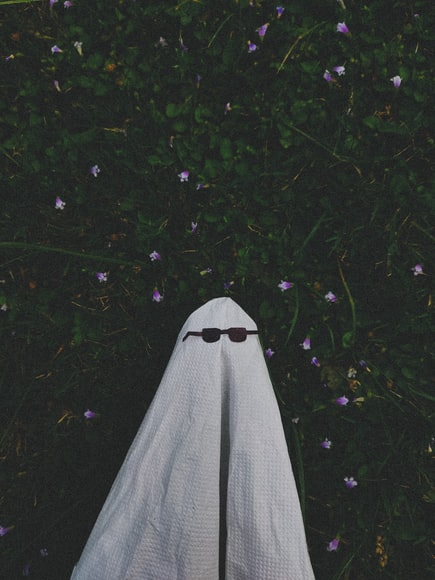
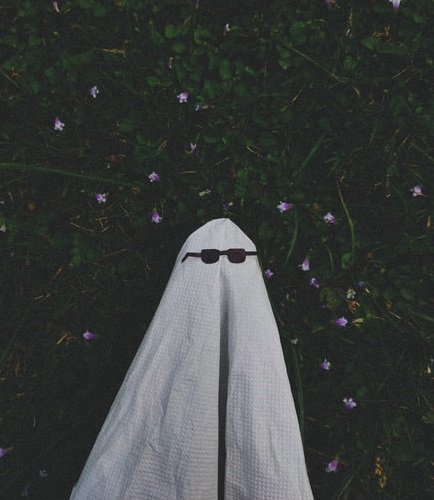
Added new footer, added some lame flexbox

diff --git a/css/style.css b/css/style.css
@@ -1,5 +1,5 @@
 :root {
-    --primary-color: #3E3C44;
+    --primary-color: #292630;
     --secondary-color: #38aff3; /* 158FFF  358fe3 35a3e3*/
     --accent-color: #ff8800; /*FF9900*/
     --text-color: #FFF;
@@ -70,6 +70,12 @@ hr {
     
 
 /*Diseño del footer:*/
+#div-footer {
+    background-color: var(--primary-color);
+    color: var(--text-color);
+    padding: 1rem 2rem 4rem 1rem;
+    text-align: right;
+}
 #social-icons {
     background-color: var(--secondary-color);
     position: fixed;
@@ -116,12 +122,18 @@ form > input[type="submit"] {
 }
 
 /* BIOGRAFIA.HTML */
+#biofgrafia-section {
+    display: flex;
+    flex-direction: column;
+    align-items: center;
+}
 #biografia-section > h2 {
     padding : 1rem 0.5rem 0 0.5rem;
     width: 100%;
 }
 #biografia-section > article {
     padding : 1rem 0.5rem 0 0.5rem;
+    max-width: 300px;
 }
 #biografia-section > article > h3{
     padding-bottom: 1rem;
@@ -130,10 +142,13 @@ form > input[type="submit"] {
     padding-bottom: 1rem;
     text-align: justify;
 }
+#biografia-section > figure {
+    max-width: 250px;
+    margin: 0;
+}
 #foto-perro-gafas {
     padding: 1rem .5rem 0 .5rem;
-    width: 200px;
-    height: 250px;
+    width: 100%;
 }
 
 /* PORTFOLIO.HTML */
@@ -141,7 +156,7 @@ form > input[type="submit"] {
 #portfolio-section > article {
     padding : 1rem 0.5rem 0 0.5rem;
 }
-#portfolio-section > article > h3{
+#portfolio-section > article > h3 {
     padding-bottom: 1rem;
 }
 #images-container {
@@ -153,7 +168,7 @@ form > input[type="submit"] {
 #videos-container {
     width: 100%;
 }
-#videos-container > iframe{
+#videos-container > iframe {
     width: 100%;
 }
 
@@ -245,6 +260,8 @@ form > input[type="submit"] {
 }
 /* Configuración TABLET */
 @media screen and (min-width: 480px) {
+
+    /* Modificación del header para ponerlo encima de la pantalla */
     #hamburger-span {
         display: none;
     }
@@ -261,7 +278,6 @@ form > input[type="submit"] {
         justify-content: center;
         align-items: center;
     }
-    /* El nav sube a menú superior normal */
     nav {
         width: 100%;
     }
@@ -295,8 +311,57 @@ form > input[type="submit"] {
     .nav-list-item:hover .nav-link::after {
         transform: scaleX(1);
     }
+
+    /* Escalo el title de la portada */
+    main > #title > hr {
+        width: 70%;
+    }
+
+    #biografia-section {
+        width: 60%;
+    }
+    #portfolio-section {
+        max-width: 60%;
+    }
+    #images-container {
+        display: flex;
+        flex-wrap: wrap;
+        justify-content: center;
+        align-items: flex-start;
+    }
+    #images-container > figure {
+        width: fit-content;
+    }
+    #images-container > figure > img {
+        max-width: 300px;
+        margin: 0.5rem;
+    }
+    #videos-container {
+        display: flex;
+        flex-direction: column;
+        align-items: center;
+    }
+    #videos-container > iframe {
+        max-width: 80%;
+        margin-bottom: 1rem;
+    }
+
+    /* Escalo el formulario de contacto */
+    #contacto-section {
+        width: 50%;
+    }
+    form > input {
+        width: 80%;
+    }
 }
 /* Configuración LAPTOP */
 @media screen and (min-width: 1024px) {
-
+    /* Escalo el title de la portada */
+    main > #title > hr {
+        width: 50%;
+    }
+    form > input {
+        width: 50%;
+    }
 }
+

diff --git a/pages/portfolio.html b/pages/portfolio.html
@@ -37,10 +37,10 @@
                         <img src="../assets/img/caballos-acordeon.jpg" alt="">
                     </figure>
                     <figure>
-                        <img src="../assets/img/piña-gafas.jpg" alt="">
+                        <img src="../assets/img/oso-saludando.jpg" alt="">
                     </figure>
                     <figure>
-                        <img src="../assets/img/oso-saludando.jpg" alt="">
+                        <img src="../assets/img/piña-gafas.jpg" alt="">
                     </figure>
                     <figure>
                         <img src="../assets/img/fantasma-gafas.jpg" alt="">
@@ -59,6 +59,11 @@
         </section>
     </main>
     <footer>
+        <div id="div-footer">
+            <p>&copy; All rights reserved<br>
+                Lorem ipsum, dolor sit amet consectetur adipisicing elit. <br>
+                C/ Lorem, s/n, 28037 Ipsum, Wakanda</p>
+        </div>
         <div id="social-icons">
             <a href="#" class="fa fa-instagram"></a>
             <a href="#" class="fa fa-facebook"></a>

diff --git a/pages/biografia.html b/pages/biografia.html
@@ -65,6 +65,11 @@
         </section>
     </main>
     <footer>
+        <div id="div-footer">
+            <p>&copy; All rights reserved<br>
+                Lorem ipsum, dolor sit amet consectetur adipisicing elit. <br>
+                C/ Lorem, s/n, 28037 Ipsum, Wakanda</p>
+        </div>
         <div id="social-icons">
             <a href="#" class="fa fa-instagram"></a>
             <a href="#" class="fa fa-facebook"></a>

diff --git a/pages/contacto.html b/pages/contacto.html
@@ -53,6 +53,11 @@
         </section>
     </main>
     <footer>
+        <div id="div-footer">
+            <p>&copy; All rights reserved<br>
+                Lorem ipsum, dolor sit amet consectetur adipisicing elit. <br>
+                C/ Lorem, s/n, 28037 Ipsum, Wakanda</p>
+        </div>
         <div id="social-icons">
             <a href="#" class="fa fa-instagram"></a>
             <a href="#" class="fa fa-facebook"></a>
